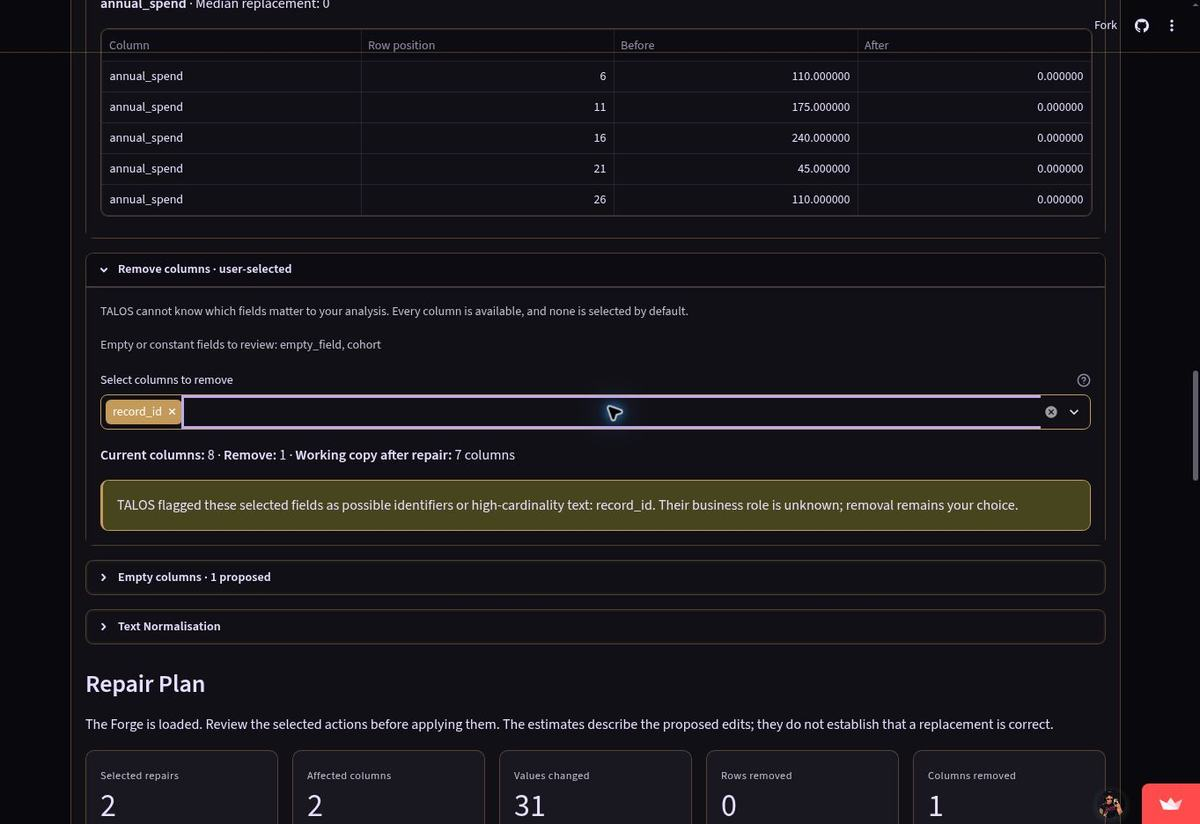
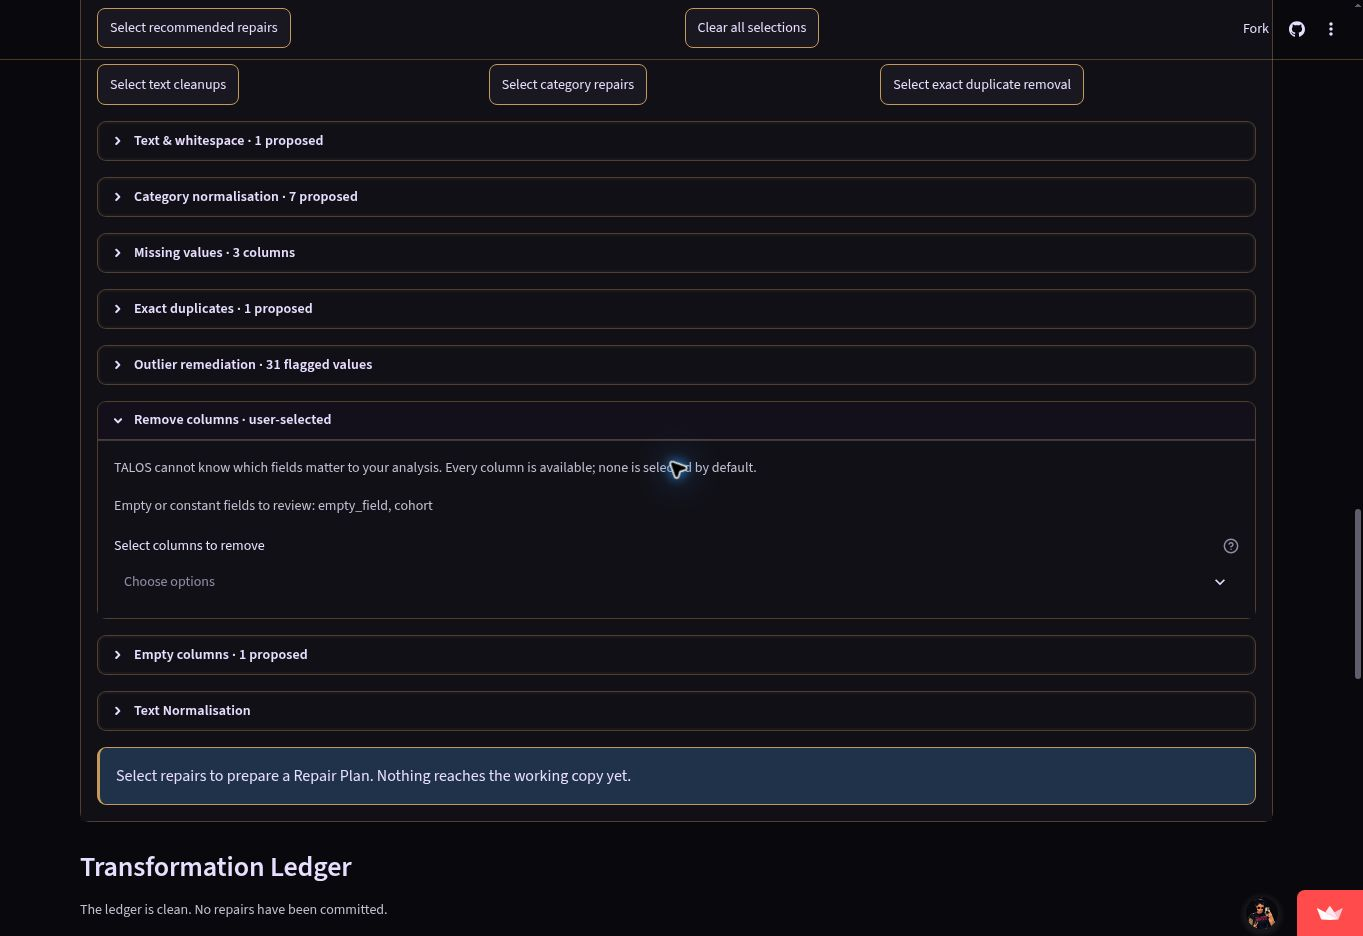
Refresh TALOS screenshots for product voice

diff --git a/README.md b/README.md
@@ -2,7 +2,7 @@
 
 **Raw data enters. Nothing passes unchecked.**
 
-**Current release: v1.1.1 — Streamlit Forge controls and report polish.**
+**Current release: v1.1.1 — Streamlit Forge controls, report polish, and product voice refinement.**
 
 This patch follows the repository's existing v1.1.0 release. The supplied
 brief labels this work v1.0.3; the version stays monotonic with the code
@@ -24,13 +24,13 @@ Screenshots use the built-in synthetic demo data.
 
 ![TALOS first-run upload screen and workflow guide](assets/screenshots/talos-landing-20260925.jpg)
 
-![TALOS synthetic dataset profile and column structure](assets/screenshots/talos-demo-overview-20260925.jpg)
+![TALOS synthetic demo with its Dataset Integrity Score and Guardian Summary](assets/screenshots/talos-demo-overview-20260925.jpg)
 
 ![TALOS Dataset Integrity Score with component weights and limitations](assets/screenshots/talos-demo-score-20260925.jpg)
 
-![Per-column IQR treatment and manual field removal in one unapproved Repair Plan](assets/screenshots/talos-demo-forge-20260925.jpg)
+![Repair Plan with selected changes, expected dataset shape, and review before approval](assets/screenshots/talos-demo-forge-20260925.jpg)
 
-![Manual field selection with the identifier warning and expected shape](assets/screenshots/talos-demo-column-removal-20260925.jpg)
+![Manual column-removal control with all fields available and none selected by default](assets/screenshots/talos-demo-column-removal-20260925.jpg)
 
 ![Approved changes recorded in the ledger after reinspection](assets/screenshots/talos-demo-reinspection-20260925.jpg)
 
@@ -197,6 +197,7 @@ TALOS reads CSV files only. Its rules do not infer business context, enforce a s
 
 The Streamlit product and the separately released Python/CLI interfaces are
 implemented. This v1.1.1 update adds per-column outlier remediation, manual
-column removal, clearer light-mode surfaces, and a concise PDF report. TALOS
-remains a review-first workflow and does not infer business meaning or certify
-that a dataset is ready for analysis.
+column removal, clearer light-mode surfaces, a concise PDF report, and
+consistent product copy across the app and reports. TALOS remains a
+review-first workflow and does not infer business meaning or certify that a
+dataset is ready for analysis.
